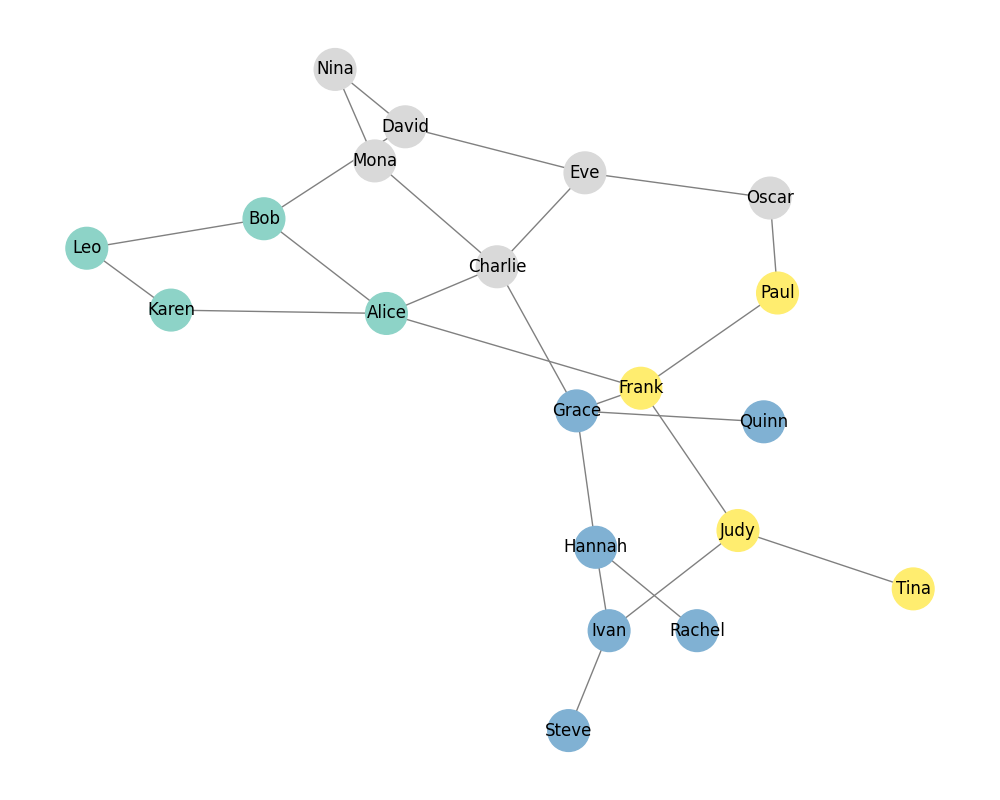
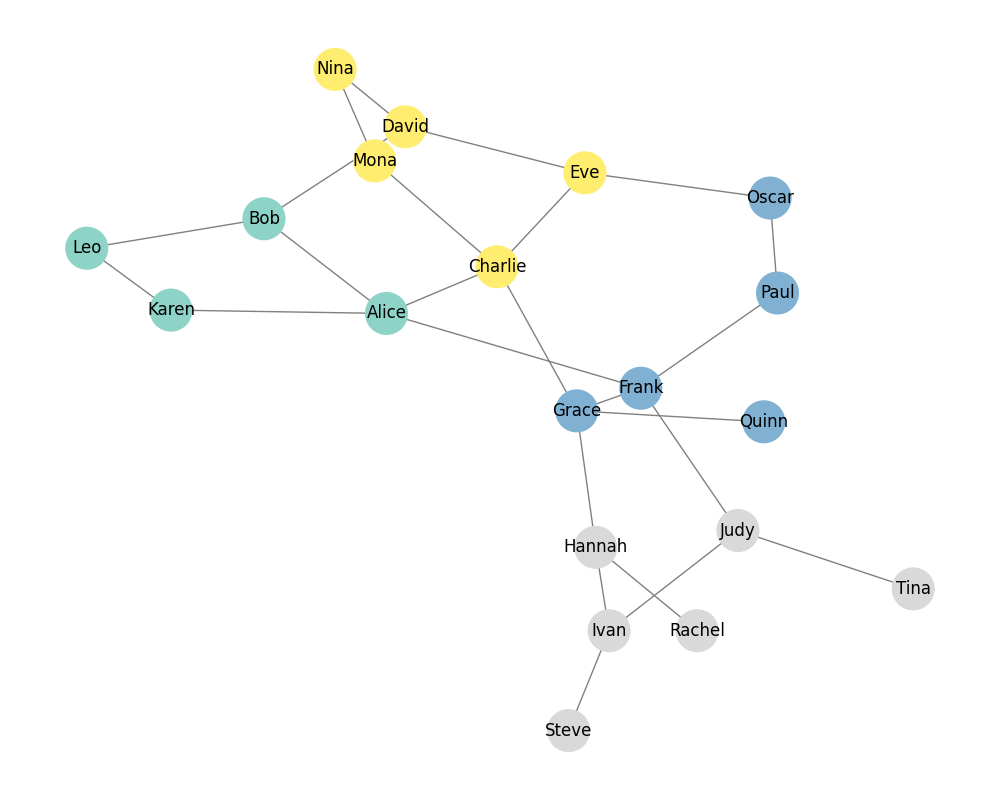
Add Louvain analysis, figures, and requirements

diff --git a/code/louvain.py b/code/louvain.py
@@ -1,55 +1,3 @@
-# Louvain community detection
-import pickle
-import networkx as nx
-import community.community_louvain as community_louvain
-import matplotlib.pyplot as plt
-import os
-
-# 1⃣ Load the graph created by P2
-with open("data/social_graph.pkl", "rb") as f:
-    G = pickle.load(f)
-
-print("Graph loaded")
-print("Nodes:", G.number_of_nodes())
-print("Edges:", G.number_of_edges())
-
-# 2⃣ Apply Louvain algorithm
-partition = community_louvain.best_partition(G)
-
-# partition = {node: community_id}
-num_communities = len(set(partition.values()))
-print("Number of detected communities:", num_communities)
-
-# 3⃣ Compute modularity
-modularity = community_louvain.modularity(partition, G)
-print("Modularity:", modularity)
-
-# 4⃣ Display communities (text)
-print("\nCommunities:")
-communities = {}
-for node, comm in partition.items():
-    communities.setdefault(comm, []).append(node)
-
-for comm, nodes in communities.items():
-    print(f"Community {comm}: {nodes}")
-
-# 5⃣ Visualization
-pos = nx.spring_layout(G, seed=42)
-colors = [partition[node] for node in G.nodes()]
-
-plt.figure(figsize=(10, 8))
-nx.draw(
-    G,
-    pos,
-    node_color=colors,
-    with_labels=True,
-    node_size=900,
-    cmap=plt.cm.Set3,
-    edge_color="gray"
-)
-plt.title("Community detection using Louvain algorithm")
-plt.savefig("figures/louvain_communities.png")
-plt.show()
 
 
 # Louvain community detection

diff --git a/README.md b/README.md
@@ -14,10 +14,35 @@ Le graphe est généré à partir d’un dataset CSV représentant des relations
 Il s’agit d’un graphe simple et non orienté.
 
 ## Outils
-- Python
+- Python 3.8+
 - NetworkX
 - Matplotlib
 - Pandas
+- python-louvain
+
+## Installation
+
+1. Clonez le dépôt.
+2. Installez les dépendances :
+   ```bash
+   pip install -r requirements.txt
+   ```
+
+## Utilisation
+
+Le projet se compose de deux scripts principaux à exécuter dans l'ordre :
+
+1. **Construction du graphe :**
+   ```bash
+   python code/graph_construction.py
+   ```
+   Ce script lit le fichier CSV, crée le graphe, calcule ses propriétés et le sauvegarde dans `data/social_graph.pkl`.
+
+2. **Détection de communautés :**
+   ```bash
+   python code/louvain.py
+   ```
+   Ce script charge le graphe sauvegardé, applique l'algorithme de Louvain et génère une visualisation dans `figures/louvain_communities.png`.
 
 ## Auteurs
 Projet réalisé par un groupe de 4 étudiants.
